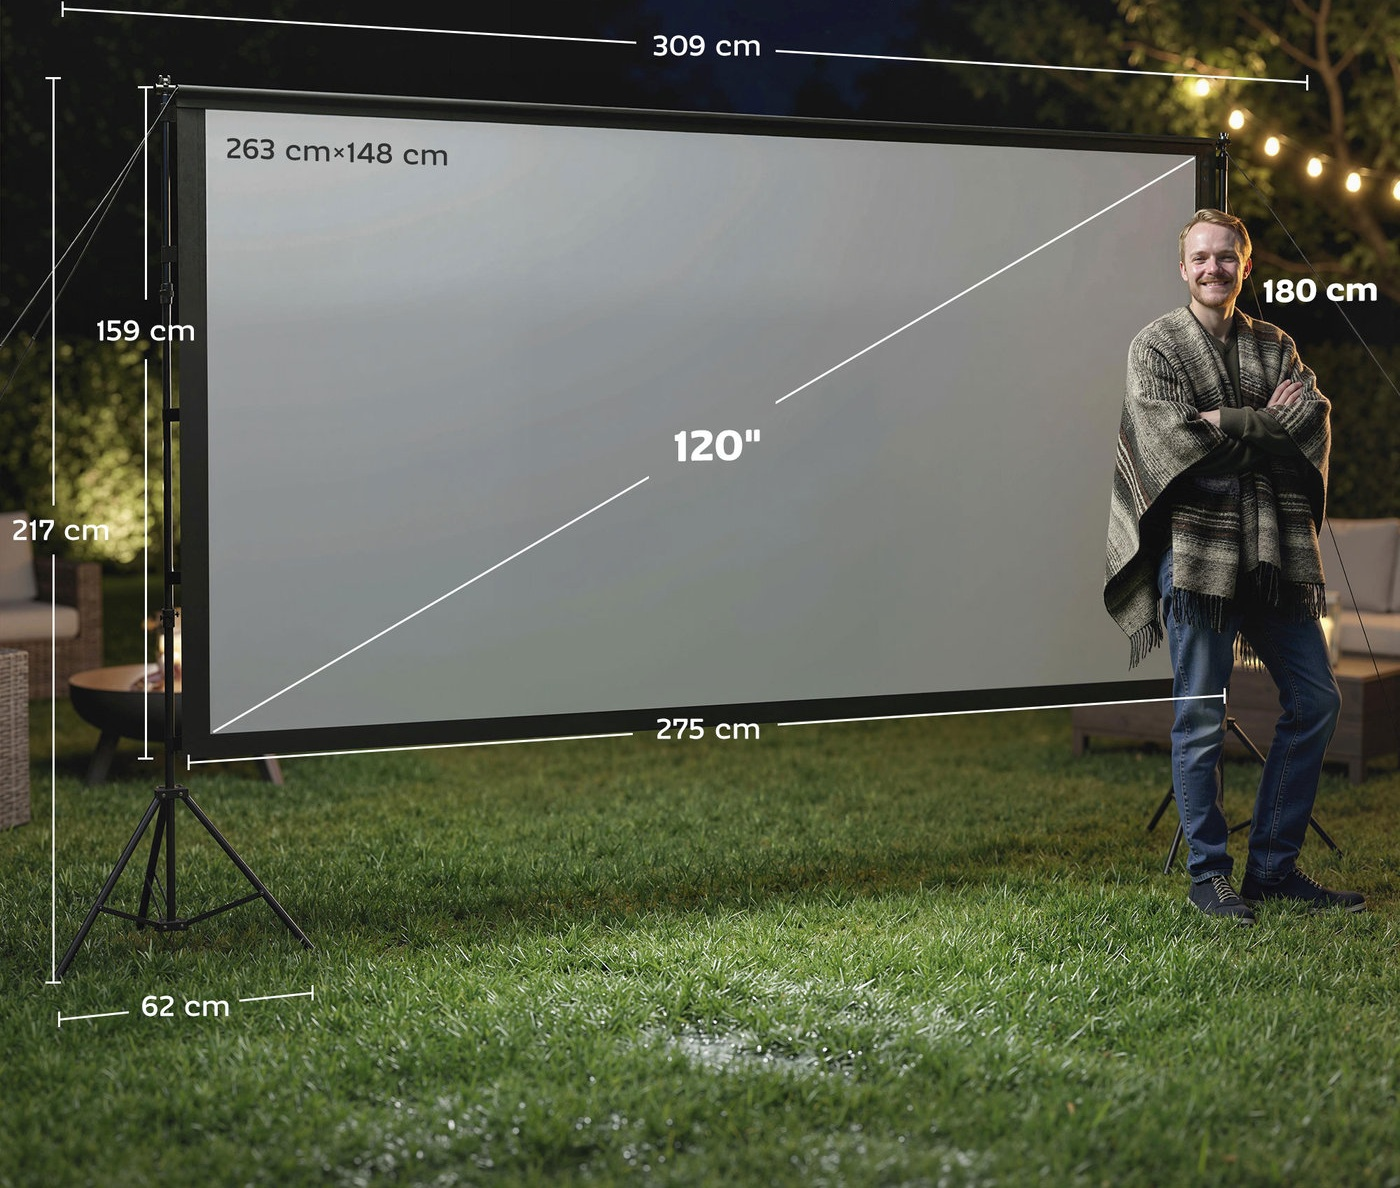
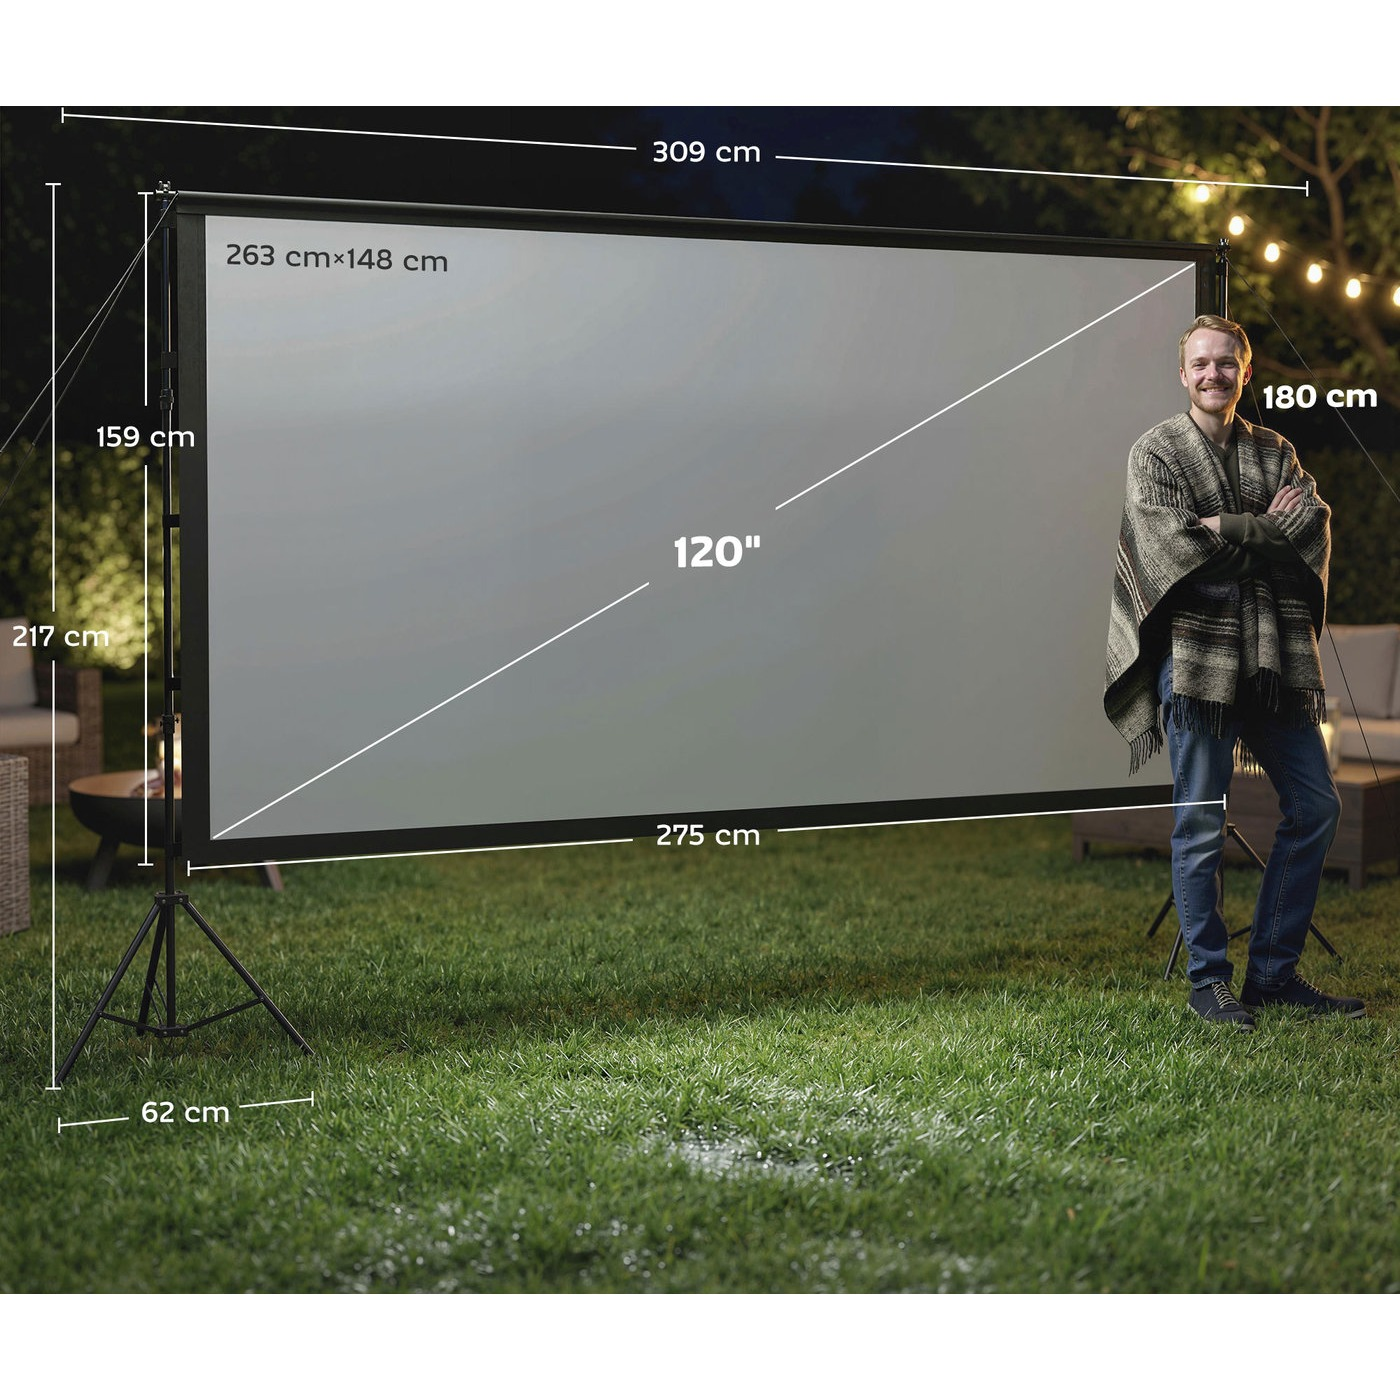
Runda 112 Steg 9: den beskurna måttritningen fylls ut till kvadrat igen
☠ En kapad ritning blir LIGGANDE, och PDP:n hämtar galleriet med
`fill/w_N,h_N,al_c` — den centrumbeskär alltså bort vänster- och högerkanten,
där måttetiketterna sitter. Runbooken har talet: på runda 98:s `9cfc2f50-3`
försvann höjdmåttet 35,5 cm HELT i fill-hämtningen.

Beskärningen som tog bort den tyska packlistan hade alltså tagit måtten med
sig. 1400 × 1188 fylls ut till 1400 × 1400 med vitt.

Claude-Session: https://claude.ai/code/session_011NGHNx8TeaEqAsBjH4A2fc

diff --git a/tools/polish-assets/runda-112/bildplan.py b/tools/polish-assets/runda-112/bildplan.py
@@ -19,6 +19,13 @@
    den lästes som en del av ritningen, och båda genomgångarna gick vidare.
    **En bild som granskas för en fråga är inte granskad för den andra.**
 
+   ☠ OCH DEN BESKURNA RITNINGEN MÅSTE FYLLAS UT TILL KVADRAT IGEN. En kapad
+   ritning blir LIGGANDE, och PDP:n hämtar galleriet med `fill/…,al_c` — den
+   centrumbeskär alltså bort vänster- och högerkanten, där måttetiketterna
+   sitter. Runbooken mätte det på runda 98:s `9cfc2f50-3`: höjdmåttet `35,5 cm`
+   försvann HELT i `fill`-hämtningen. Beskärningen hade alltså tagit bort tyskan
+   och måtten på en gång. 1400 × 1188 fylls därför ut till 1400 × 1400 med vitt.
+
    Här går den DÄREMOT att beskära bort, tvärtemot 77e4a558-1: bandet ligger
    helt ovanför ramens överkant, alltså på bakgrunden och inte på varan, och
    varje mått överlever kapningen — 309, 263×148, 120", 159, 217, 275, 62 och
